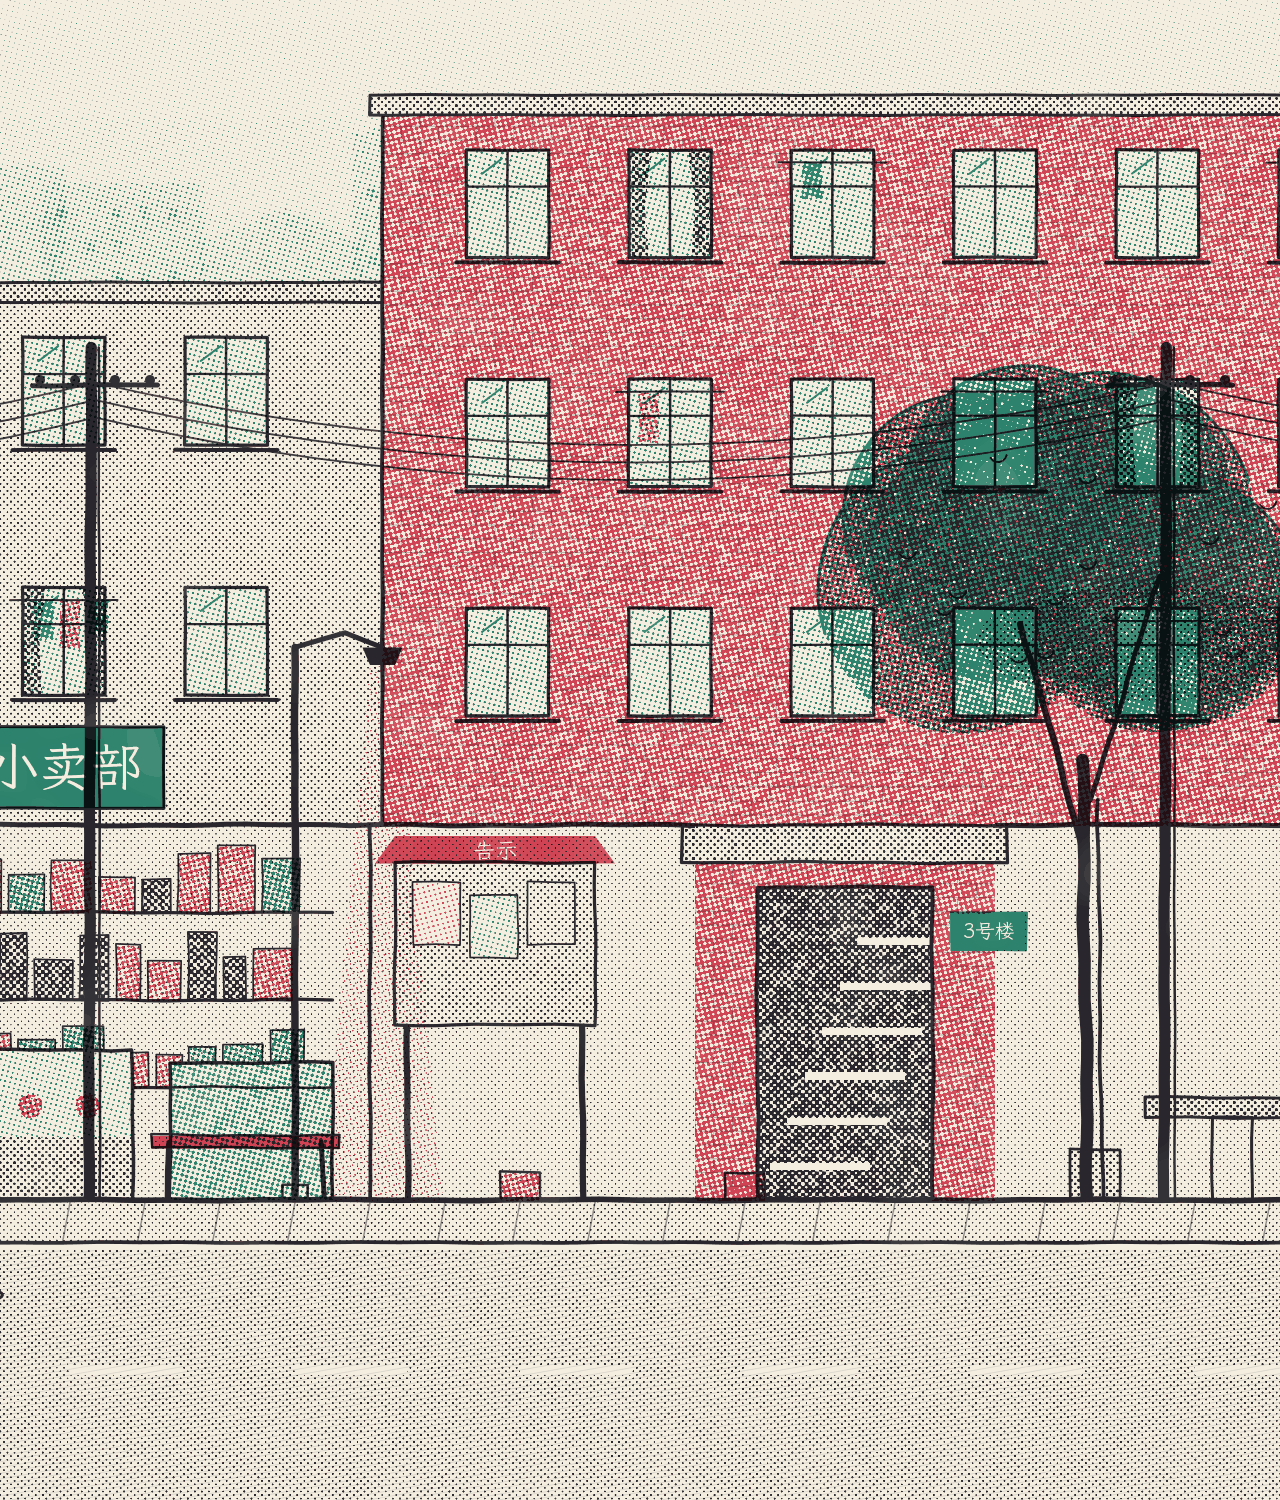
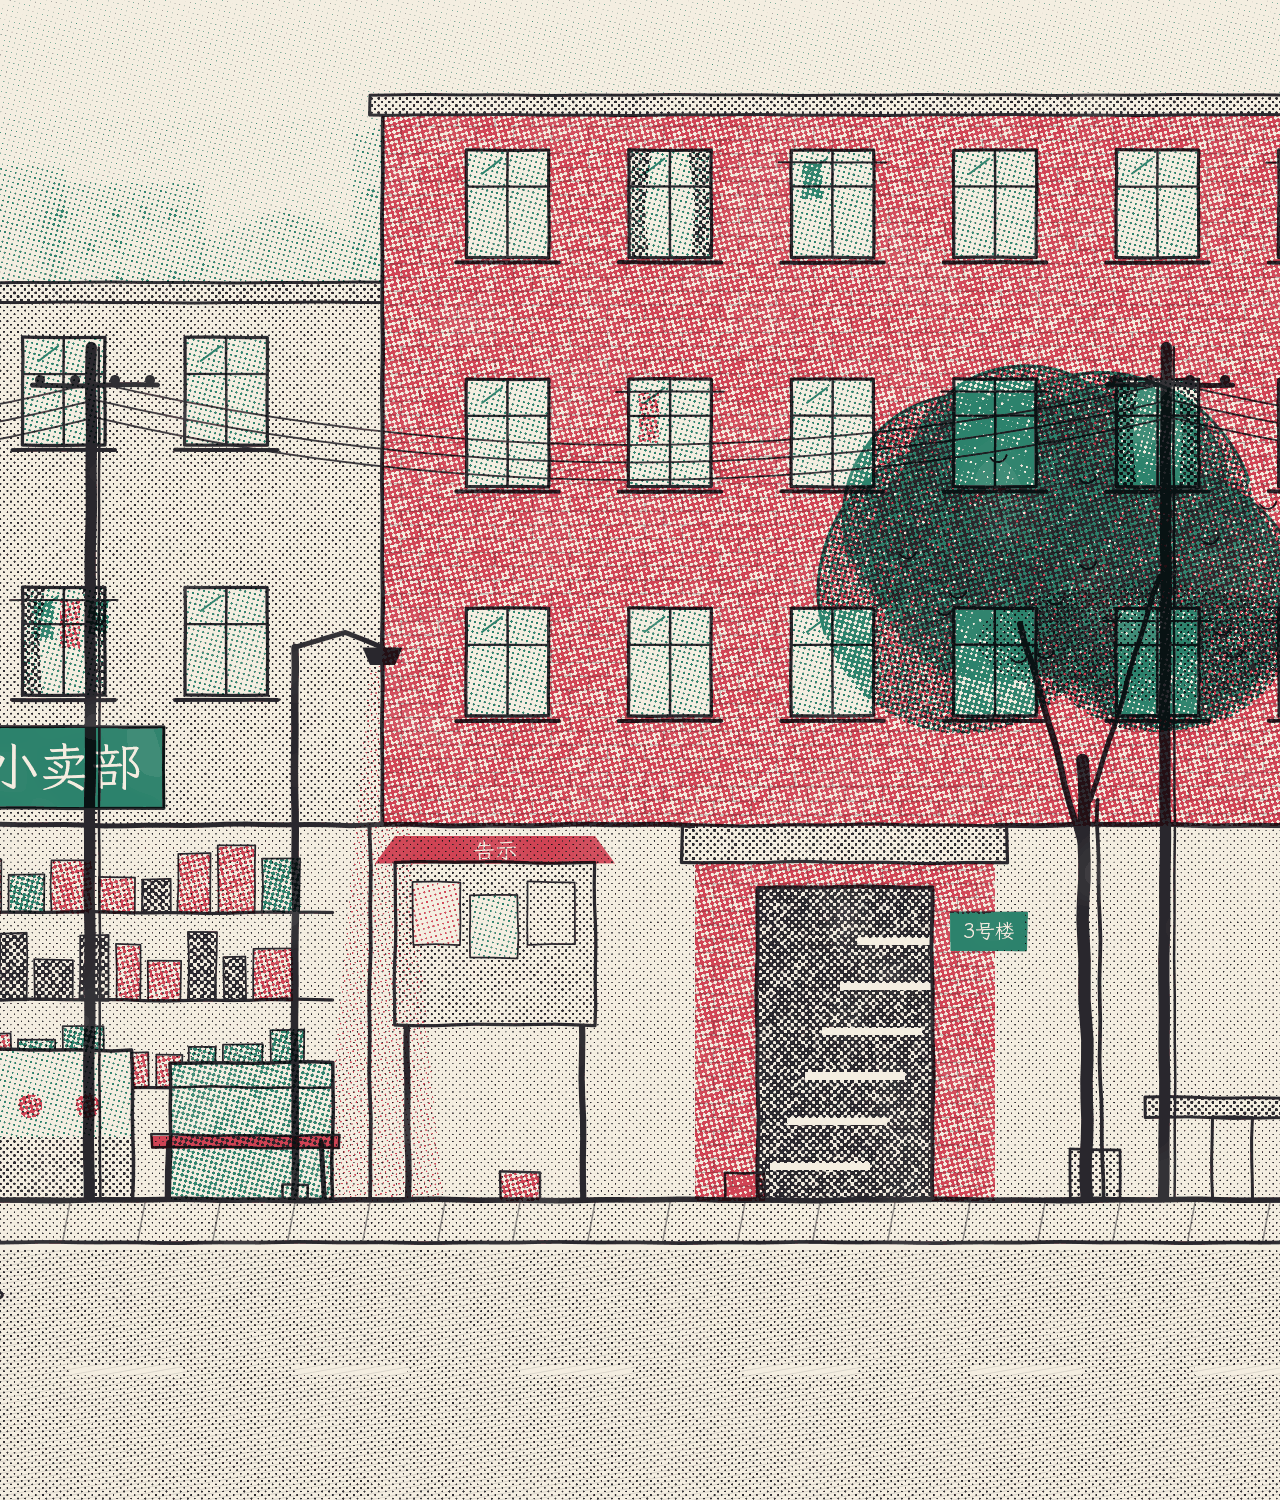
评审：楼下去中学的出口挪到修车铺旁的胡同口、构建时查出口间距；影子和被叫过来的人不去锁着的图
Claude-Session: https://claude.ai/code/session_01LBX7ovh7tsGsmWCoDMXYkP

diff --git a/server/src/world.ts b/server/src/world.ts
@@ -336,6 +336,11 @@ function worldCanAct(s: LifeState, c: Content, role: Role, spotId: string, anywh
   try { sp = lifeFind(c.map.spots, spotId); } catch (e) { return "没有这个地方"; }
   var dx = sp.at[0] - a.x, dy = sp.at[1] - a.y;
   if (!anywhere && dx * dx + dy * dy > SPOT_RADIUS * SPOT_RADIUS) return "走近一点";
+  // 影子找事、跟着对门、睡觉都是直接到点位上的（anywhere）：那张图这个人去不了，就不能去（上学上班 worldSceneLock 自己放行）
+  if (anywhere) {
+    var lock = worldSceneLock(s, c, lifeFind(c.map.scenes, sp.scene), role);
+    if (lock) return lock;
+  }
   var pick = worldPickAction(s, c, role, sp);
   if (!pick.act) return pick.why;
   var act = pick.act;
@@ -790,10 +795,14 @@ function worldAdvance(s: LifeState, c: Content, dtSec: number, online: { [R in R
     var mev = lifeFindEvent(c, w.fate.mirror);
     // 在线的人要自己走到那里；离线的影子只要没睡着，就会被「叫过来」
     var anyOnline = roles.some(function (r) { return online[r]; });
+    var host: Actor | null = null;
+    for (var h0 = 0; h0 < roles.length; h0++) if (online[roles[h0]]) host = w.actors[roles[h0]];
+    var hostScene = host ? worldSceneAt(c, host.y) : null;
     var available = function (r: Role) {
       var x = w.actors[r]!;
       if (online[r]) return worldIdle(x) && worldInZone(c, x, mev.where);
-      if (anyOnline) return !x.asleep && (x.from === undefined || x.from === w.slot);
+      // 叫过来也得是他去得了的图（四岁的影子不会被叫到海河边）
+      if (anyOnline) return !x.asleep && (x.from === undefined || x.from === w.slot) && !!hostScene && !worldSceneLock(s, c, hostScene, r);
       return !x.asleep && worldInZone(c, x, mev.where);
     };
     if (roles.length === 2 && worldOverlaps(mev.when, w.slot) && roles.every(available)) {

diff --git a/server/src/content.generated.ts b/server/src/content.generated.ts
@@ -1,6 +1,6 @@
 // 由 tools/build-content.mjs 生成，请修改 content/*.yaml 后运行 npm run content
 var CONTENT: Content = {
- "version": "9bfd37aae25e",
+ "version": "c9f80f438aba",
  "events": [
   {
    "id": "c_roof_summer",
@@ -28282,7 +28282,7 @@ var CONTENT: Content = {
        ]
       },
       {
-       "minAge": 4,
+       "minAge": 5,
        "flags": [
         "fam_factory"
        ]
@@ -28404,7 +28404,7 @@ var CONTENT: Content = {
      20760
     ],
     "unlock": {
-     "minAge": 40
+     "minAge": 45
     },
     "far": false
    }
@@ -29942,7 +29942,7 @@ var CONTENT: Content = {
     ],
     "to": "street",
     "arrive": [
-     160,
+     2540,
      2760
     ],
     "label": "回楼下"
@@ -30063,7 +30063,7 @@ var CONTENT: Content = {
     "id": "street.to_middle",
     "scene": "street",
     "at": [
-     160,
+     2540,
      2760
     ],
     "to": "middle",
@@ -31396,7 +31396,7 @@ var CONTENT: Content = {
    "lateEarly": 0.75,
    "lateAfter": 1.8,
    "lateRoom": 3,
-   "linkedDrift": 0.5,
+   "linkedDrift": 0.6,
    "linkedMood": 0.3,
    "oldSoul": 0.08,
    "oldSoulCharm": 0.8

diff --git a/tools/art/scenes.py b/tools/art/scenes.py
@@ -988,11 +988,9 @@ def draw_street(g, sc):
     breakfast(g, sp, zs["breakfast"]["span"], shop_top)
     shop(g, sp, zs["shop"]["span"], shop_top)
     alley(g, sp, ex, zs["alley"]["span"], shop_top)
-    bikeshop(g, sp, zs["bikeshop"]["span"], shop_top)
+    bikeshop(g, sp, ex, zs["bikeshop"]["span"], shop_top)
     teahouse(g, sp, zs["teahouse"]["span"], shop_top)
-    # 最左头两个路口：去小学、去中学
-    for k, xx in enumerate((ex["to_primary"][0], ex["to_middle"][0])):
-        pass
+    # 最左头的路口：去小学
     g.clear(rect_pts(-40, shop_top - 80, 250, GROUND - shop_top + 80))
     g.pen("ink", 0.28).fill(rect_pts(-40, shop_top - 80, 250, GROUND - shop_top + 80))
     fhatch(g, "ink", -40, shop_top - 80, 250, GROUND - shop_top + 80, 30, 14, 1.0, 0.4)
@@ -1136,31 +1134,44 @@ def alley(g, sp, ex, span, top):
     signboard(g, gx + 140, top + 40, "河畔里", "qing", 24, vertical=True, pad=8)
 
 
-def bikeshop(g, sp, span, top):
+def lane(g, x, top, w=150):
+    """两栋楼之间的一条窄胡同口：黑洞洞的一条，上头一道过街的檐。"""
+    g.clear(rect_pts(x - w / 2, top - 80, w, GROUND - top + 80))
+    g.pen("ink", 0.32).fill(rect_pts(x - w / 2, top - 80, w, GROUND - top + 80))
+    fhatch(g, "ink", x - w / 2, top - 80, w, GROUND - top + 80, 30, 14, 1.0, 0.4)
+    g.ink.line([(x - w / 2, top - 80), (x - w / 2, GROUND)], 3.4)
+    g.ink.line([(x + w / 2, top - 80), (x + w / 2, GROUND)], 3.4)
+    g.pen("ink", 0.5).fill([(x - w / 2 - 20, top - 80), (x + w / 2 + 20, top - 80), (x + w / 2 + 10, top - 108), (x - w / 2 - 10, top - 108)])
+
+
+def bikeshop(g, sp, ex, span, top):
     x0, x1 = span
-    signboard(g, (x0 + x1) / 2, top - 46, "修车", "ink", 44)
-    # 墙上挂的内胎、二胡、工具板
-    for k in range(4):
-        g.ink.circle(x0 + 90 + k * 70, top + 110, 30, lw=4)
-        g.ink.line([(x0 + 90 + k * 70, top + 70), (x0 + 90 + k * 70, top + 80)], 2)
-    hx = x1 - 140
+    # 修车铺左手边一条胡同，往中学去
+    lane(g, ex["to_middle"][0], top, 130)
+    b0 = ex["to_middle"][0] + 80
+    signboard(g, (b0 + x1) / 2, top - 46, "修车", "ink", 44)
+    # 墙上挂的内胎、工具板、一把旧二胡
+    for k in range(3):
+        g.ink.circle(b0 + 60 + k * 70, top + 110, 30, lw=4)
+        g.ink.line([(b0 + 60 + k * 70, top + 70), (b0 + 60 + k * 70, top + 80)], 2)
+    g.ink.rect(b0 + 250, top + 60, 110, 110, lw=2.4)
+    for r in range(3):
+        for c in range(3):
+            g.ink.line([(b0 + 270 + c * 30, top + 76 + r * 32), (b0 + 270 + c * 30, top + 98 + r * 32)], 3)
+    hx = x1 - 50
     g.ink.line([(hx, top + 50), (hx + 10, top + 230)], 3)
     g.clear(ellipse_pts(hx + 12, top + 226, 18, 12))
     g.pen("mei", 0.6).fill(ellipse_pts(hx + 12, top + 226, 18, 12))
     g.ink.ellipse(hx + 12, top + 226, 18, 12, lw=2)
     g.ink.line([(hx - 30, top + 160), (hx + 40, top + 190)], 1.4)
-    g.ink.rect(x0 + 380, top + 60, 120, 110, lw=2.4)
-    for r in range(3):
-        for c in range(4):
-            g.ink.line([(x0 + 396 + c * 28, top + 76 + r * 32), (x0 + 396 + c * 28, top + 98 + r * 32)], 3)
-    # 一辆正修着的车倒扣着
-    bicycle(g, x0 + 150, GROUND, 1, "qing")
-    bicycle(g, x1 - 120, GROUND, -1, "mei")
+    # 修着的车、等着取的车
+    bicycle(g, b0 + 210, GROUND, 1, "qing")
+    bicycle(g, x1 - 90, GROUND, -1, "mei")
     # 打气筒、水盆
-    g.ink.line([(x0 + 320, GROUND), (x0 + 320, GROUND - 90)], 4)
-    g.ink.line([(x0 + 300, GROUND - 90), (x0 + 340, GROUND - 90)], 4)
-    g.ink.ellipse(x0 + 400, GROUND - 14, 40, 12, lw=2.4)
-    g.pen("qing", 0.4).fill(ellipse_pts(x0 + 400, GROUND - 16, 36, 8))
+    g.ink.line([(b0 + 300, GROUND), (b0 + 300, GROUND - 90)], 4)
+    g.ink.line([(b0 + 280, GROUND - 90), (b0 + 320, GROUND - 90)], 4)
+    g.ink.ellipse(b0 + 360, GROUND - 14, 34, 10, lw=2.4)
+    g.pen("qing", 0.4).fill(ellipse_pts(b0 + 360, GROUND - 16, 30, 7))
     stool(g, sp["bike_bench"], GROUND, "ink", 70, 44)
 
 

diff --git a/docs/TECH.md b/docs/TECH.md
@@ -156,7 +156,9 @@ Nakama 全部自带，开源，Docker 一条命令起；服务端逻辑可以用
 
 - 一张图是一条横着的剖面或街景，人只左右走。世界坐标里每张图占一条：第 i 张（`SCENE_ORDER`）从 y = i × `stride`（2000）开始，楼层 `floors` 是这条里的几道地面。所以存档、MOVE、插值都不用知道「哪张图」，y 就说明了。
 - 出口（EXIT）把人瞬移到另一张图或另一层的落脚点；落脚点 200 像素内必须有回头的出口（构建时检查）。
-- 解锁按年纪和标记（`unlock: {minAge, maxAge, flags, notFlags, any}`），自己上学上班的那张图总能去。只有一个人去的图（外地），对门看不见 TA。
+- 解锁按年纪和标记（`unlock: {minAge, maxAge, flags, notFlags, any}`），自己上学上班的那张图总能去。影子找事、跟着对门、被镜像事件「叫过来」也守这个锁（`worldCanAct` 的 anywhere 分支）。
+- 同一张图同一层的两个出口至少隔 220（出口半径 110 的两倍，构建时检查），站在哪儿都只够得着一个。
+- **还没接上的（第三步）**：外地（away）和出租屋（rental）现在没有出口通进去，外地念书、上班的日程点位还在海河边的 river_bridge，人每天还是从家里的床起来，所以「外地只有走那条路的人看得见」还没生效。别按「已经能去外地」写剧情。第三步接的时候：走了那条路的人要真的离开河畔里，同时一定要有回来的路（过年、休假、came_back）。
 - 客户端：`scene_art.gd` 只画眼前这一张（`client/art/scenes/<图>_<k>.png`，`tools/art/scenes.py` 印的），夜版 `print_light.gd` 换图时按 `anchors.json` 重烘灯。镜头竖着装下这一张，横着跟人走。
 
 ### 同框的位置同步
